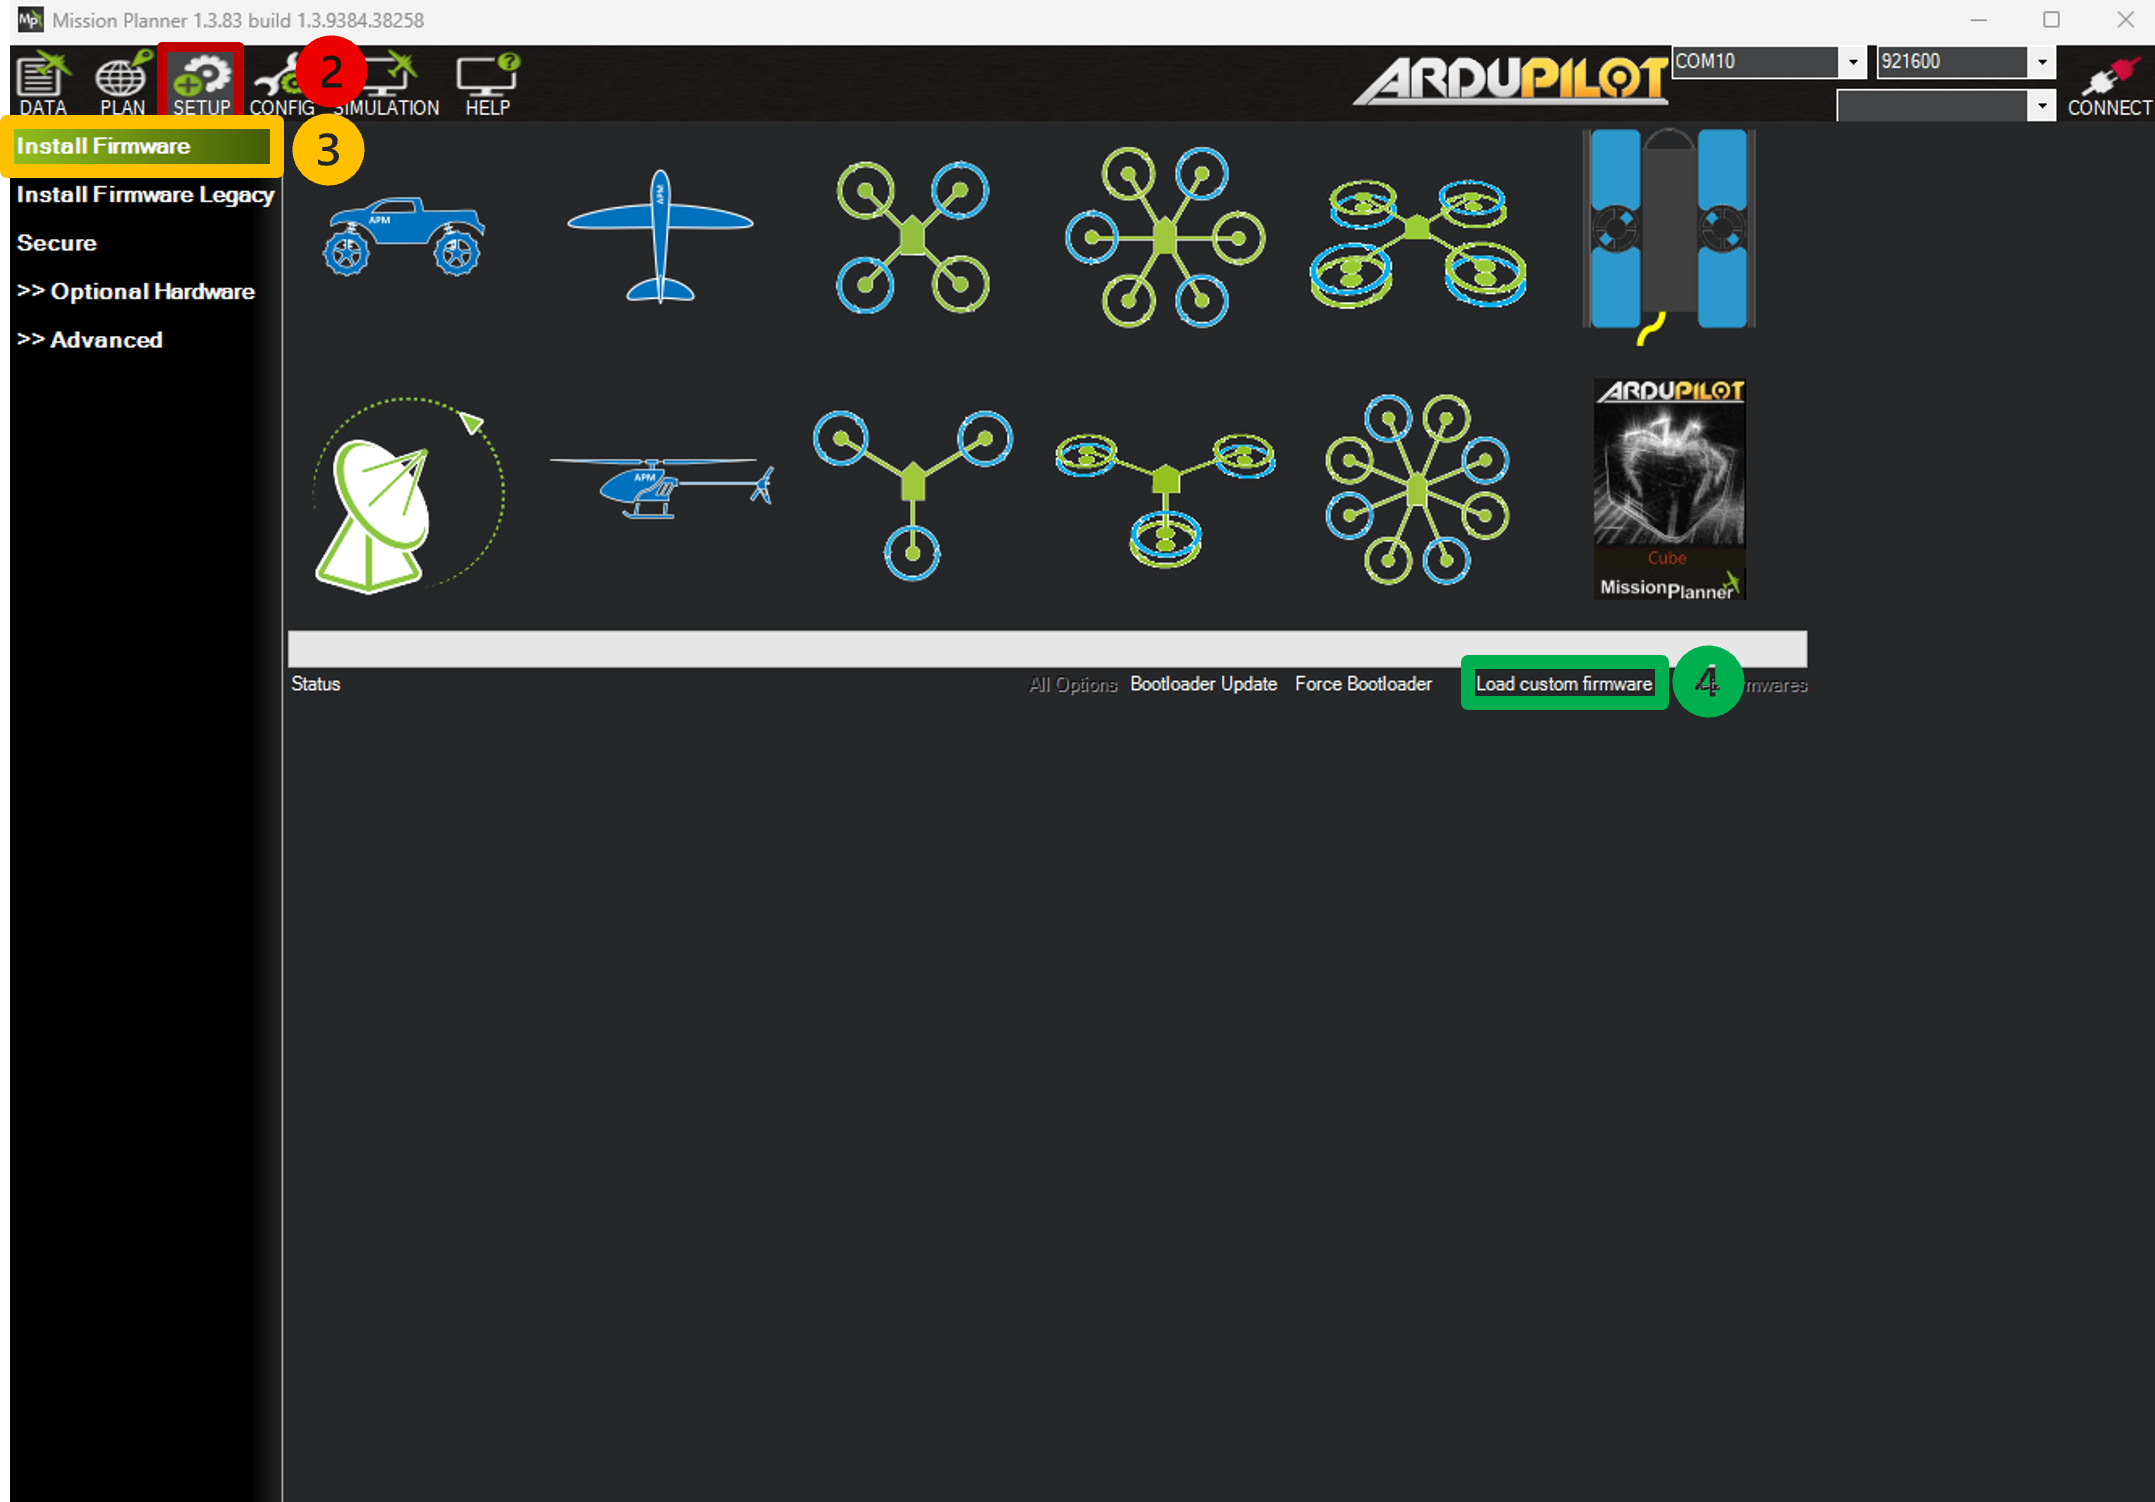
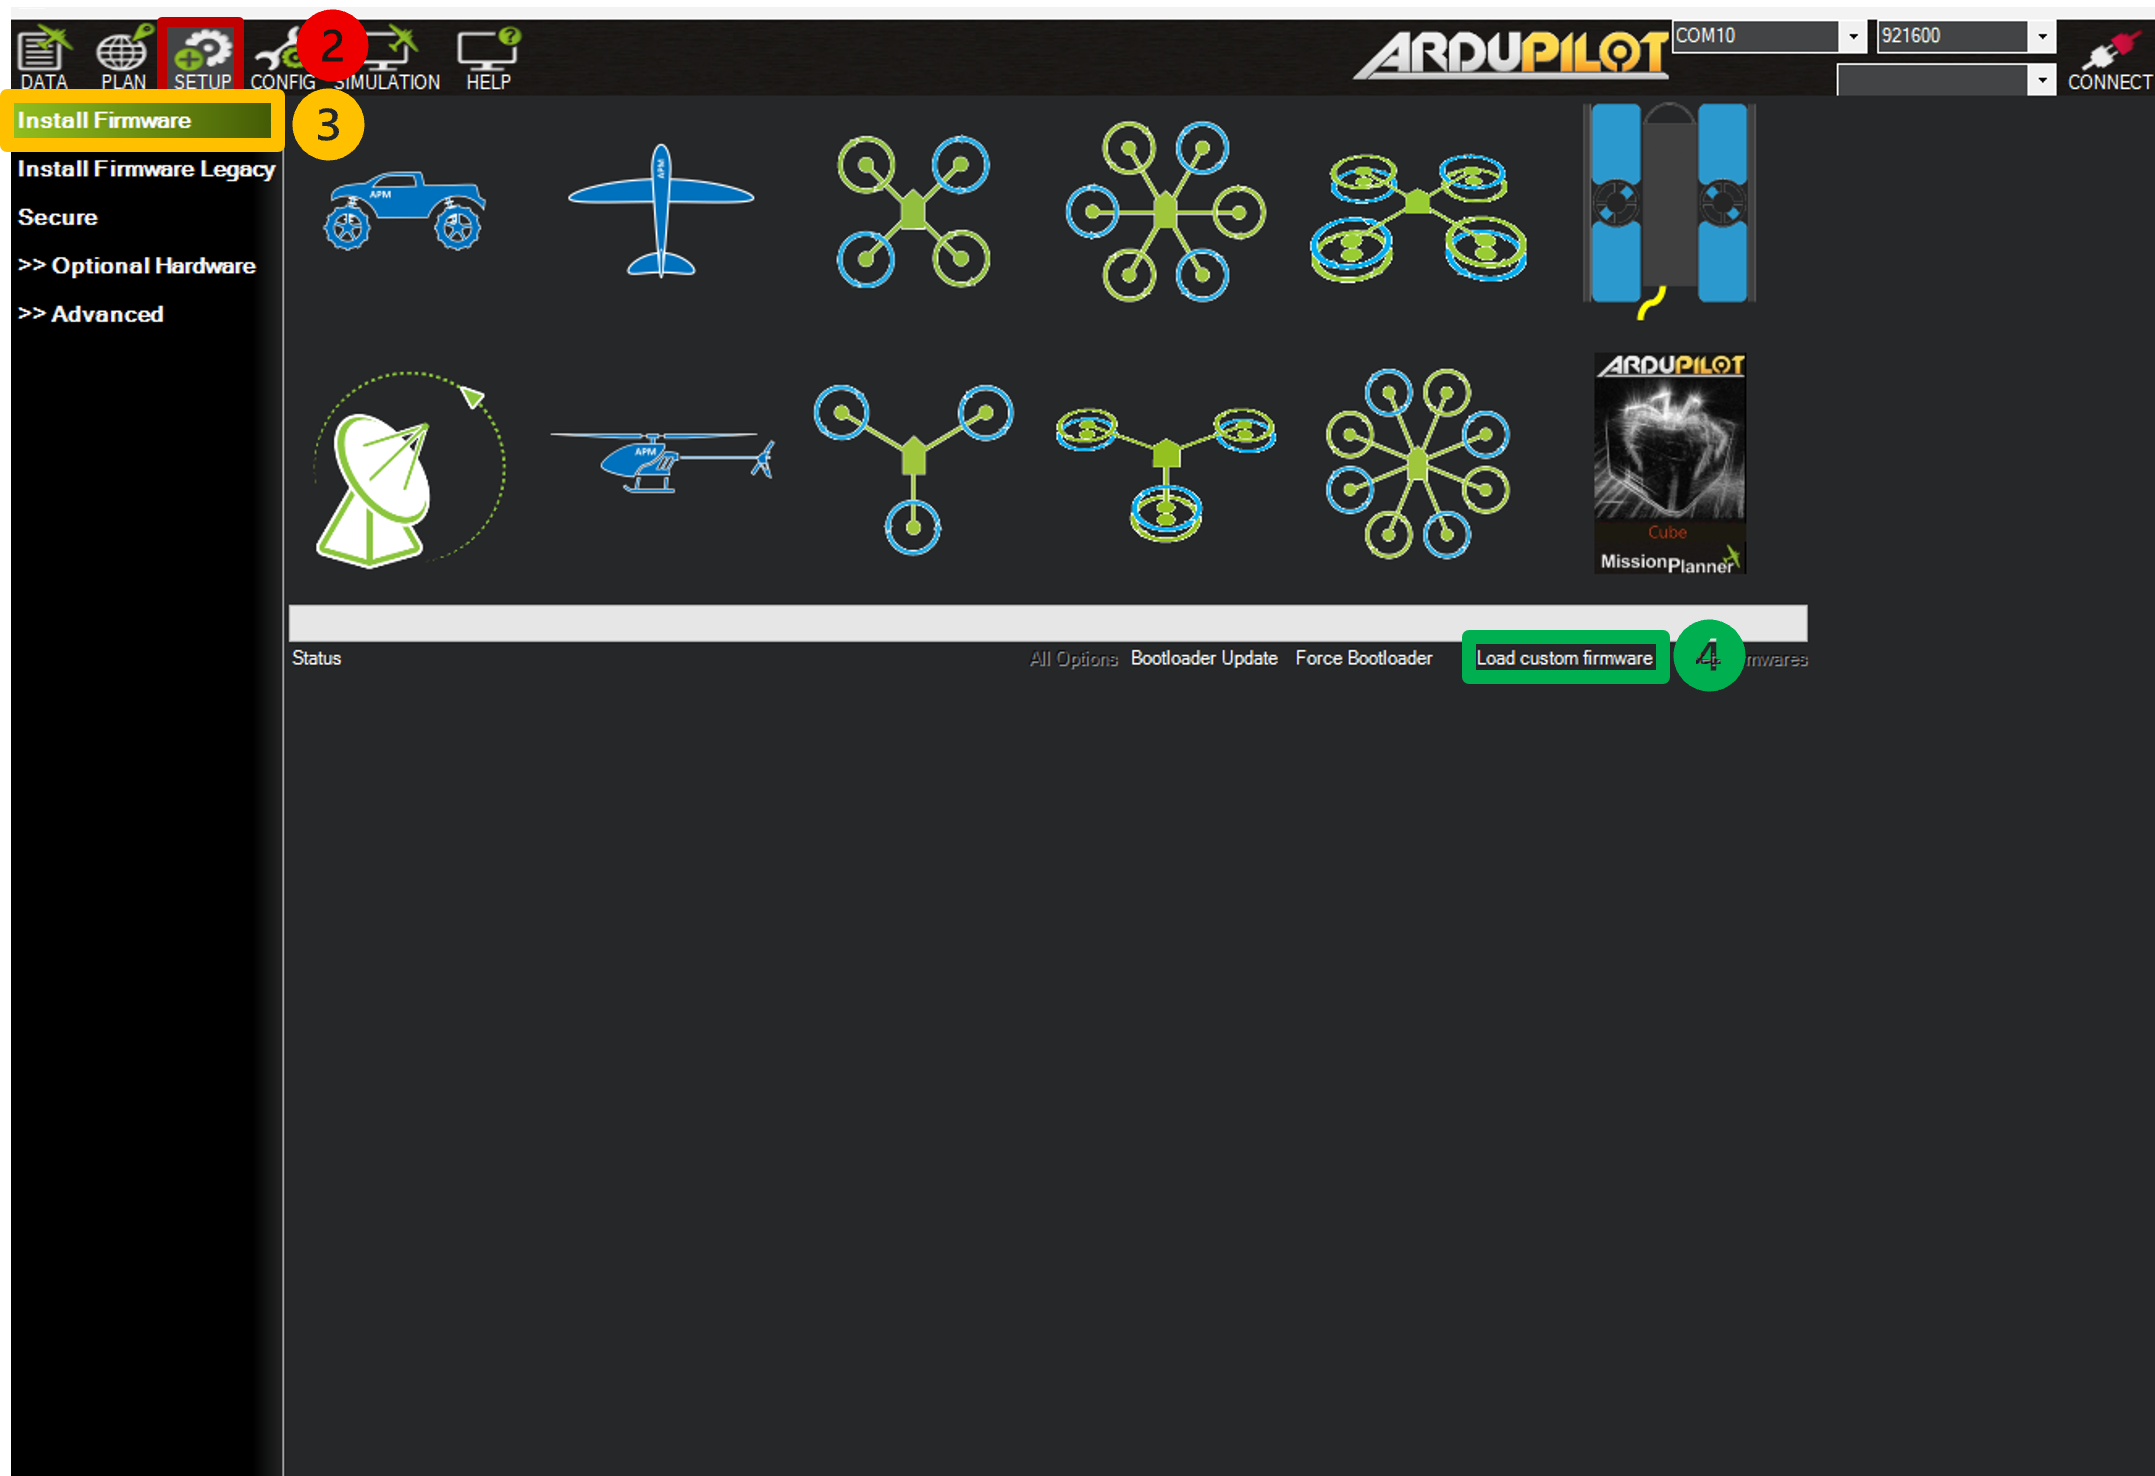
chores: image change + .hex -> .apj

Changed region(s): [[0.0, 0.0, 1.0, 0.4986]]

diff --git a/docs/Integration/ArduPilot/install.md b/docs/Integration/ArduPilot/install.md
@@ -332,7 +332,7 @@ function openTab(tabName) {
             Use the directory path corresponding to your actual target flight controller board.
 
             ```bash
-            /home/username/ardupilot/build/pixhawk6c-bdshot/bin/arducopter.hex
+            /home/username/ardupilot/build/pixhawk6c-bdshot/bin/arducopter.apj
             ```
 
     6. Select the file and allow Mission Planner to complete the upload.